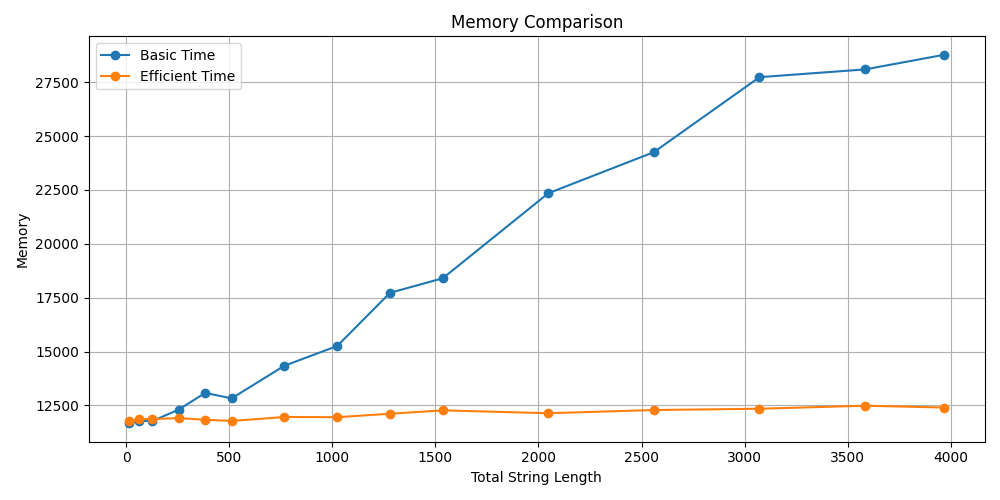
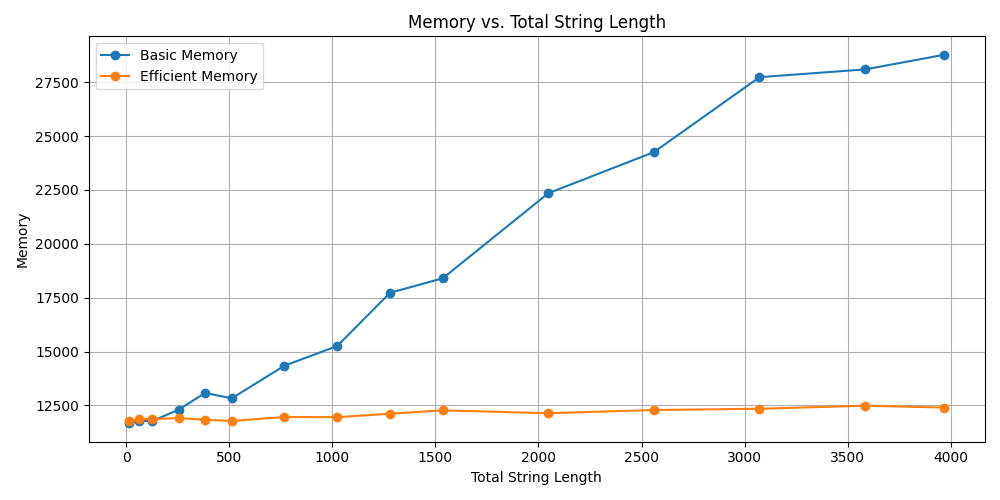
updated the mem graph image

Changed region(s): [[0.403, 0.03, 0.682, 0.06], [0.186, 0.09, 0.279, 0.18]]

diff --git a/plot_script.py b/plot_script.py
@@ -47,8 +47,8 @@ if __name__ == '__main__':
 
     # Plot memory comparison
     plt.figure(figsize=(10, 5))
-    plt.plot(total_str_lens_values,basic_mem_values, 'o-', label='Basic Time')
-    plt.plot(total_str_lens_values,efficient_mem_values, 'o-', label='Efficient Time')
+    plt.plot(total_str_lens_values,basic_mem_values, 'o-', label='Basic Memory')
+    plt.plot(total_str_lens_values,efficient_mem_values, 'o-', label='Efficient Memory')
     plt.xlabel("Total String Length")
     plt.ylabel("Memory")
     plt.title("Memory vs. Total String Length")
